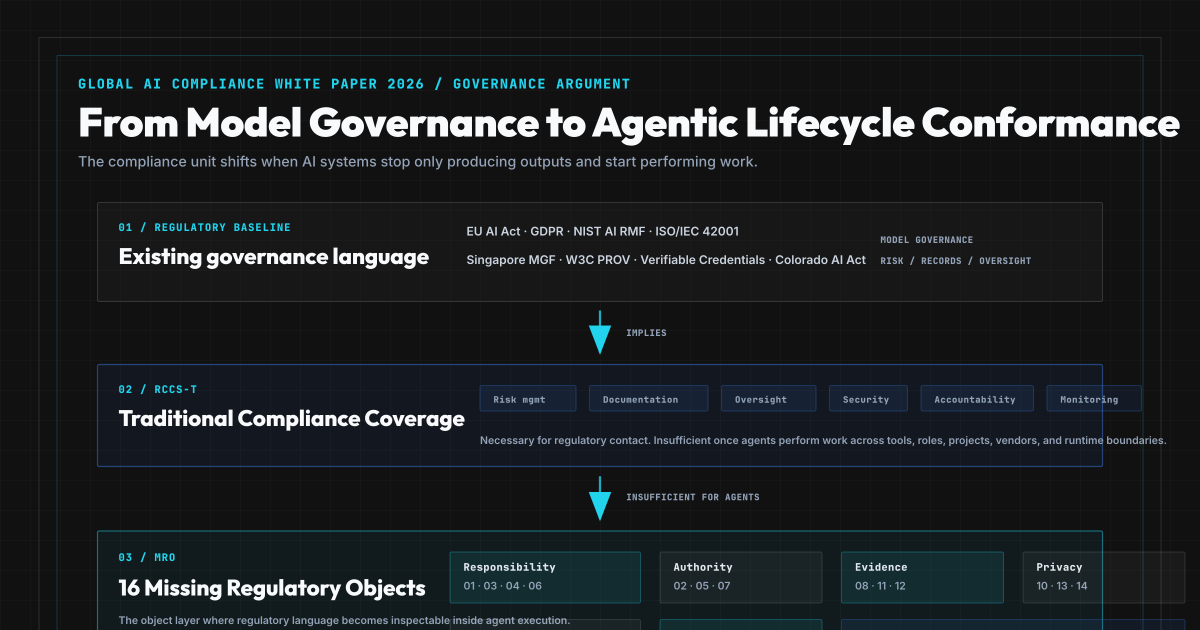
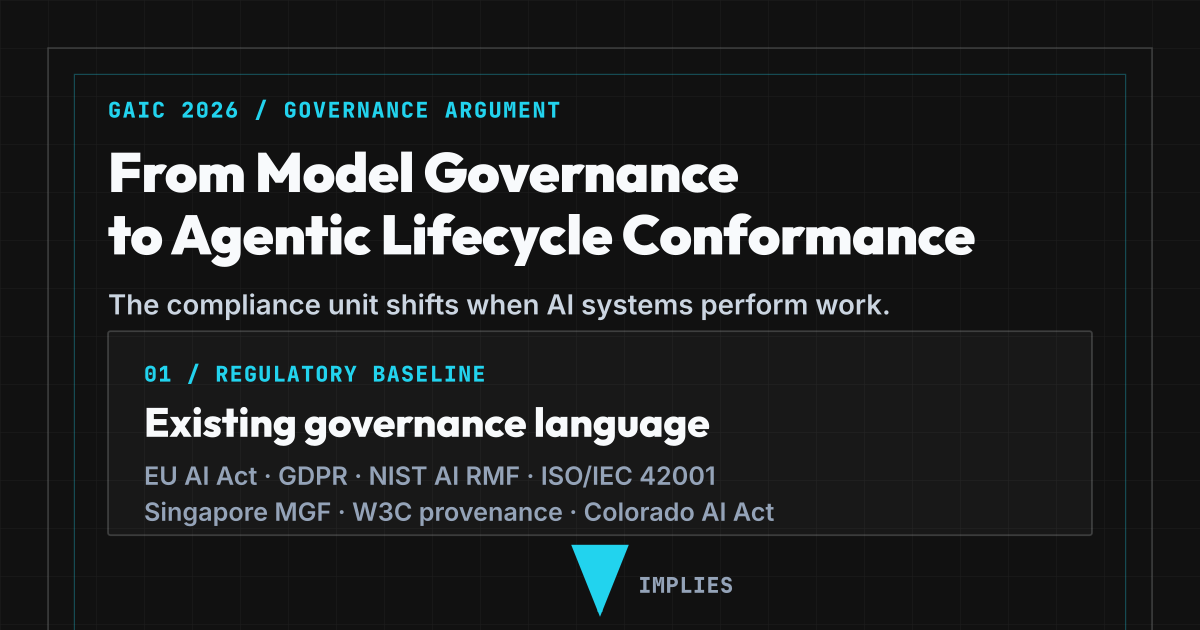
fix: improve lifecycle conformance figure readability

diff --git a/src/content/essays/from-model-governance-to-agentic-lifecycle-conformance.md b/src/content/essays/from-model-governance-to-agentic-lifecycle-conformance.md
@@ -16,14 +16,14 @@ images:
     alt: "Diagram showing the path from regulatory baseline to RCCS-T, Missing Regulatory Objects, RCCS-M, ALCS, and systems mapped in the Global AI Compliance White Paper 2026"
     caption: "The white paper moves from existing regulatory language to traditional coverage, then to missing lifecycle responsibility objects, MRO-adjusted coverage, and agentic lifecycle conformance."
     thumbnailUrl: /social/from-model-governance-to-agentic-lifecycle-conformance-og.png
-    width: 1600
-    height: 1200
+    width: 1000
+    height: 1720
   - url: /figures/from-model-governance-to-agentic-lifecycle-conformance-mobile.svg
     alt: "Mobile-readable version of the diagram showing regulatory baseline, RCCS-T, Missing Regulatory Objects, RCCS-M, and ALCS"
     caption: "Mobile-readable version of the white paper argument path from regulatory language to agentic lifecycle conformance."
     thumbnailUrl: /social/from-model-governance-to-agentic-lifecycle-conformance-og.png
-    width: 720
-    height: 1520
+    width: 390
+    height: 1840
 publishDate: 2026-05-13
 cluster: ai-agent-lifecycle
 projectProof: MPLP
@@ -88,7 +88,7 @@ From model governance to agentic lifecycle conformance.
 <figure class="article-figure article-figure--diagram">
   <picture>
     <source media="(max-width: 700px)" srcset="/figures/from-model-governance-to-agentic-lifecycle-conformance-mobile.svg" />
-    <img src="/figures/from-model-governance-to-agentic-lifecycle-conformance.svg" alt="Diagram showing the path from regulatory baseline to RCCS-T, Missing Regulatory Objects, RCCS-M, ALCS, and systems mapped in the Global AI Compliance White Paper 2026" width="1600" height="1200" loading="eager" decoding="async" />
+    <img src="/figures/from-model-governance-to-agentic-lifecycle-conformance.svg" alt="Diagram showing the path from regulatory baseline to RCCS-T, Missing Regulatory Objects, RCCS-M, ALCS, and systems mapped in the Global AI Compliance White Paper 2026" width="1000" height="1720" loading="eager" decoding="async" />
   </picture>
   <figcaption>The white paper moves from existing regulatory language to traditional coverage, then to missing lifecycle responsibility objects, MRO-adjusted coverage, and agentic lifecycle conformance.</figcaption>
 </figure>
